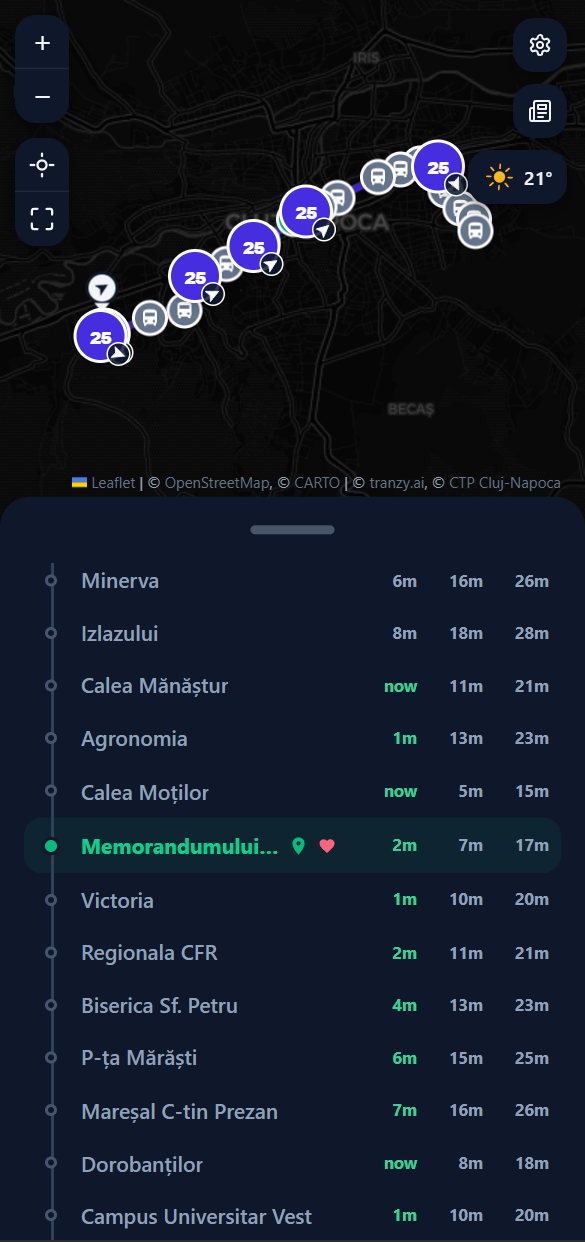
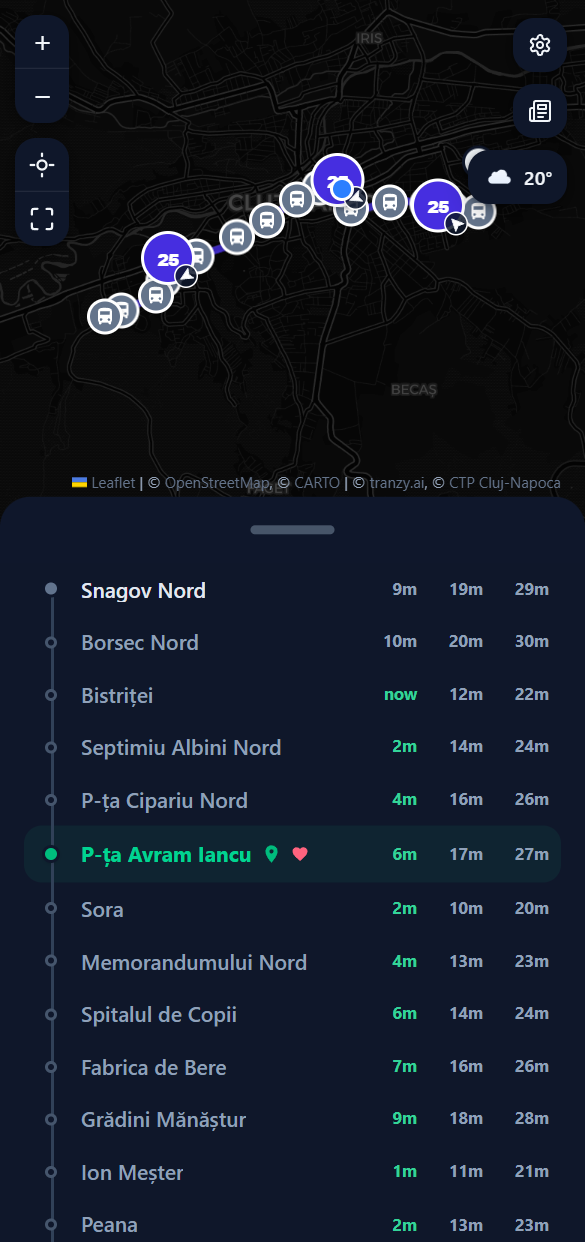
README update

diff --git a/frontend/src/views/StopView.vue b/frontend/src/views/StopView.vue
@@ -25,6 +25,7 @@ import {getRouteIdFromTripId} from "@/utils/trips.ts";
 import HeaderNavigation from "@/components/HeaderNavigation.vue"
 import {getDirectionFromTripId, getTripIdForRouteAtStop} from "@/utils/trips.ts";
 import {useSettingsStore} from "@/stores/settings.ts"
+import {useMapStore} from "@/stores/map.ts"
 import ShareButton from "@/components/ShareButton.vue";
 import {useKbdShortcuts} from "@/composables/useKeyboardNav.ts";
 import {keepHyphenatedWords} from "@/utils/text.ts";
@@ -92,6 +93,12 @@ function planHere() {
   if (!info) return
   void router.push({name: 'plan', query: {lat: String(info.stop_lat), lon: String(info.stop_lon), name: info.stop_name}})
 }
+
+const mapStore = useMapStore()
+watch(() => stopInfo.value?.stop_id, () => {
+  const info = stopInfo.value
+  if (info && !settings.watchActive) mapStore.setFlyToLocation(info.stop_lat, info.stop_lon)
+}, {immediate: true})
 
 watch([stopInfo, () => route.query.follow], ([info, tripId]) => {
   const at = Number(route.query.at)
@@ -448,7 +455,8 @@ const navigateToAllRoute = (shape: ShapeInfo) => {
                   i === 0 && !shape.static_time_approximation
                     ? 'time-pill-live'
                     : 'time-pill-sched',
-                  i > 0 ? 'time-pill-extra' : ''
+                  i > 0 ? 'time-pill-extra' : '',
+                  i > 1 ? 'time-pill-third' : ''
                 ]"
               >{{
                   i === 0 && shape.static_time_approximation ? '~\u202f' : ''
@@ -595,6 +603,13 @@ const navigateToAllRoute = (shape: ShapeInfo) => {
 }
 
 /* Hide 2nd + 3rd pill when card is narrow */
+@container (max-width: 380px) {
+  .time-pill-third,
+  .live-badge {
+    display: none;
+  }
+}
+
 @container (max-width: 300px) {
   .time-pill-extra {
     display: none;

diff --git a/frontend/src/components/JourneyCard.vue b/frontend/src/components/JourneyCard.vue
@@ -34,7 +34,7 @@ const bus = computed(() => (step.value?.busMinutes != null ? formatMinutesFromNo
       </div>
       <span v-if="bus" class="journey-time">{{ bus }}</span>
     </div>
-    <div class="flex justify-end items-center gap-1">
+    <div class="flex flex-wrap justify-end items-center gap-1">
       <button type="button" class="journey-text-btn" @click="store.stop()">{{ t('journeyEnd') }}</button>
       <button type="button" class="journey-text-btn" @click="store.next()">{{ t('journeyNext') }}</button>
       <button type="button" class="journey-go" @click="router.push('/nav')">
@@ -103,7 +103,8 @@ const bus = computed(() => (step.value?.busMinutes != null ? formatMinutesFromNo
 }
 
 .journey-text-btn {
-  padding: 0.4rem 0.75rem;
+  padding: 0.4rem 0.6rem;
+  white-space: nowrap;
   border-radius: 9999px;
   font-size: 0.8125rem;
   font-weight: 700;
@@ -116,6 +117,7 @@ const bus = computed(() => (step.value?.busMinutes != null ? formatMinutesFromNo
 
 .journey-go {
   display: inline-flex;
+  white-space: nowrap;
   align-items: center;
   gap: 0.375rem;
   padding: 0.45rem 0.95rem;

diff --git a/frontend/src/views/NavigationView.vue b/frontend/src/views/NavigationView.vue
@@ -2,6 +2,7 @@
 import {computed, onMounted, onUnmounted, ref, watch} from 'vue'
 import {useI18n} from 'vue-i18n'
 import {useRouter} from 'vue-router'
+import {useHead} from '@unhead/vue'
 import {storeToRefs} from 'pinia'
 import HeaderNavigation from '@/components/HeaderNavigation.vue'
 import {useJourneyStore} from '@/stores/journey.ts'
@@ -23,6 +24,11 @@ const {userLocation, userTime} = storeToRefs(useUserStore())
 const FOLLOW_EVERY_MS = 8_000
 
 const journey = computed(() => store.journey)
+
+useHead(() => ({
+  title: journey.value ? t('headPlanToTitle', {dest: journey.value.destination.name}) : t('headPlanTitle'),
+  meta: [{name: 'robots', content: 'noindex'}],
+}))
 const step = computed(() => store.step)
 const now = computed(() => (userTime.value ?? new Date()).getTime())
 const title = computed(() => (step.value ? stepTitle(step.value) : t('followWaiting')))

diff --git a/frontend/src/styles/legacy-blue.css b/frontend/src/styles/legacy-blue.css
@@ -186,6 +186,7 @@ html[data-legacy-blue] .stop-view-container,
 html[data-legacy-blue] .route-view-container,
 html[data-legacy-blue] .home-view-container,
 html[data-legacy-blue] .plan-view-container,
+html[data-legacy-blue] .nav-view-container,
 html[data-legacy-blue] .settings-view-container {
   background: var(--xp-bliss) !important;
   font-family: var(--xp-font) !important;
@@ -612,7 +613,8 @@ html.dark[data-legacy-blue] .app-drawer {
 html.dark[data-legacy-blue] .stop-view-container,
 html.dark[data-legacy-blue] .route-view-container,
 html.dark[data-legacy-blue] .home-view-container,
-html.dark[data-legacy-blue] .plan-view-container {
+html.dark[data-legacy-blue] .plan-view-container,
+html.dark[data-legacy-blue] .nav-view-container {
   background: var(--xp-bliss) !important;
   color: var(--xp-text) !important;
 }

diff --git a/frontend/src/App.vue b/frontend/src/App.vue
@@ -2,6 +2,7 @@
 import {computed, defineAsyncComponent, nextTick, onMounted, onUnmounted, ref, watch} from "vue"
 import {useI18n} from "vue-i18n"
 import {useRoute, useRouter} from "vue-router"
+import {useHead} from "@unhead/vue"
 import MapComponent from "@/components/MapComponent.vue"
 import SettingsButton from "@/components/SettingsButton.vue"
 import OfflinePill from "@/components/OfflinePill.vue"
@@ -23,6 +24,7 @@ const WatchShell = defineAsyncComponent(() => import("@/components/watch/WatchSh
 const SimplifiedLayoutPrompt = defineAsyncComponent(() => import("@/components/SimplifiedLayoutPrompt.vue"))
 
 const {t} = useI18n()
+useHead(() => ({title: t('headHomeTitle')}))
 const mapStore = useMapStore()
 const appSettings = useSettingsStore()
 const reminders = useRemindersStore()

diff --git a/frontend/src/styles/paper.css b/frontend/src/styles/paper.css
@@ -126,6 +126,7 @@ html[data-paper] .stop-view-container,
 html[data-paper] .route-view-container,
 html[data-paper] .home-view-container,
 html[data-paper] .plan-view-container,
+html[data-paper] .nav-view-container,
 html[data-paper] .settings-view-container,
 html[data-paper] .kbd-help,
 html[data-paper] .app-toast {
@@ -179,6 +180,7 @@ html[data-paper] .stop-view-container,
 html[data-paper] .route-view-container,
 html[data-paper] .home-view-container,
 html[data-paper] .plan-view-container,
+html[data-paper] .nav-view-container,
 html[data-paper] .settings-view-container {
   background: transparent !important;
   color: var(--pp-ink) !important;

diff --git a/frontend/src/styles/arcade.css b/frontend/src/styles/arcade.css
@@ -59,6 +59,7 @@ html[data-arcade] .stop-view-container,
 html[data-arcade] .route-view-container,
 html[data-arcade] .home-view-container,
 html[data-arcade] .plan-view-container,
+html[data-arcade] .nav-view-container,
 html[data-arcade] .settings-view-container {
   background-color: #fefce8 !important;
 }
@@ -293,6 +294,7 @@ html.dark[data-arcade] .stop-view-container,
 html.dark[data-arcade] .route-view-container,
 html.dark[data-arcade] .home-view-container,
 html.dark[data-arcade] .plan-view-container,
+html.dark[data-arcade] .nav-view-container,
 html.dark[data-arcade] .settings-view-container {
   background-color: #1c1608 !important;
 }

diff --git a/frontend/src/utils/__tests__/journey.spec.ts b/frontend/src/utils/__tests__/journey.spec.ts
@@ -36,6 +36,13 @@ function drive(j: Journey, run: JourneyRun, ticks: [Fix | null, LegDeparture | n
 }
 
 describe('a planned trip', () => {
+  it('starts at the stop when there is no walk to it', () => {
+    const j = journey()
+    j.legs[0]!.walkMinutes = 0
+    expect(startRun(j, null).phase).toEqual({kind: 'wait', leg: 0})
+    expect(startRun(journey(), null).phase).toEqual({kind: 'walk', leg: 0})
+  })
+
   it('goes walk, wait, ride, walk, wait, ride, last walk, arrived as you move', () => {
     const j = journey()
     const start = fixAt(46.76 - 0.004, 23.59)

diff --git a/frontend/src/views/SettingsView.vue b/frontend/src/views/SettingsView.vue
@@ -91,7 +91,7 @@ async function togglePush() {
 
     <section class="flex flex-col gap-2">
       <h2 class="section-label">{{ t('language') }}</h2>
-      <p class="setting-note">
+      <p v-if="settings.locale !== 'ro'" class="setting-note">
         <span v-if="settings.legacyBlueActive" class="emoji-icon-sm" aria-hidden="true">⚠</span>
         <svg v-else viewBox="0 0 24 24" fill="none" stroke="currentColor" stroke-width="2.2"
              stroke-linecap="round" stroke-linejoin="round" aria-hidden="true">

diff --git a/frontend/src/views/HomeView.vue b/frontend/src/views/HomeView.vue
@@ -461,7 +461,7 @@ useKbdShortcuts({
       </section>
 
       <section v-if="isHydrated && (hasFavorites || recentNonFavoritePlans.length)" class="flex flex-col gap-5">
-        <h2 class="section-label">
+        <h2 v-if="hasFavorites" class="section-label">
           <span v-if="settings.legacyBlueActive" class="emoji-icon" aria-hidden="true">❤</span>
           <svg v-else class="w-3.5 h-3.5 text-rose-500 shrink-0" fill="currentColor"
                viewBox="0 0 24 24">

diff --git a/frontend/src/utils/journey.ts b/frontend/src/utils/journey.ts
@@ -121,7 +121,7 @@ export function leftOnBus(fix: Fix, leg: JourneyLeg): boolean {
 export function startRun(journey: Journey, fix: Fix | null): JourneyRun {
   const first = journey.legs[0]!
   return {
-    phase: {kind: 'walk', leg: 0},
+    phase: {kind: first.walkMinutes < 0.5 ? 'wait' : 'walk', leg: 0},
     stepIndex: 0,
     alerted: false,
     rideStop: 0,

diff --git a/README.md b/README.md
@@ -13,6 +13,9 @@ A live bus and tram tracker for Cluj-Napoca. I ride CTP every day and got tired 
 - The times get better on their own: the server watches the buses and learns how long each stretch really takes, hour by hour
 - Full timetables for every line, straight from CTP
 - A route planner: leave now, leave at, arrive by, or the last one today
+- Start a planned trip and it walks you through it: to the stop, onto the bus, off at the right stop
+- Tap the bell on a departure and it tells you when to leave, when the bus is close and when it's there
+- Reminders for the buses you take often, once or on chosen days, sent 20 minutes before the bus even with the site closed
 - Favorite stops, and favorite lines per direction
 - Follow a line and get a notification when CTP changes its timetable or route
 - Installable as an app. After the first visit every stop, line and timetable opens without the server: the whole network comes down once (about 180 KB) and only the buses stay live
@@ -23,7 +26,7 @@ There are a few hidden things scattered around for the curious. 🐣
 
 <p align="center">
   <img src="readme/phone-route.png" width="250" alt="A line's stops with live arrival times">
-  <img src="readme/phone-planner.png" width="250" alt="A planned trip from the train station to Iulius Mall">
+  <img src="readme/phone-planner.png" width="250" alt="A planned trip from the train station to Iulius Mall, ready to start">
   <img src="readme/phone-timetable.png" width="250" alt="A line's timetable, with the times already gone faded out">
 </p>
 
@@ -31,12 +34,12 @@ There are a few hidden things scattered around for the curious. 🐣
 
 <table>
   <tr>
-    <td align="center"><img src="readme/theme-default.png" width="380" alt="The default theme, light and dark"><br><sub>Default</sub></td>
-    <td align="center"><img src="readme/theme-arcade.png" width="380" alt="The Arcade theme, light and dark"><br><sub>Arcade</sub></td>
+    <td align="center"><img src="readme/theme-default.png" width="380" alt="The default theme, light on the left and dark on the right"><br><sub>Default</sub></td>
+    <td align="center"><img src="readme/theme-arcade.png" width="380" alt="The Arcade theme, light on the left and dark on the right"><br><sub>Arcade</sub></td>
   </tr>
   <tr>
-    <td align="center"><img src="readme/theme-legacy-blue.png" width="380" alt="The Legacy Blue theme, light and dark"><br><sub>Legacy Blue</sub></td>
-    <td align="center"><img src="readme/theme-paper.png" width="380" alt="The Paper theme, light and dark"><br><sub>Paper</sub></td>
+    <td align="center"><img src="readme/theme-legacy-blue.png" width="380" alt="The Legacy Blue theme, light on the left and dark on the right"><br><sub>Legacy Blue</sub></td>
+    <td align="center"><img src="readme/theme-paper.png" width="380" alt="The Paper theme, light on the left and dark on the right"><br><sub>Paper</sub></td>
   </tr>
 </table>
 
@@ -47,7 +50,7 @@ It runs in a smartwatch browser too, with a simplified layout: favorites, depart
 <p align="center">
   <img src="readme/watch-menu.png" width="180" alt="Simplified layout menu with favorites">
   <img src="readme/watch-stop.png" width="180" alt="Departures from a stop">
-  <img src="readme/watch-route.png" width="180" alt="A line's stops around the one you came from">
+  <img src="readme/watch-route.png" width="180" alt="A line's timetable for today">
   <img src="readme/watch-map.png" width="180" alt="Live buses on the map">
 </p>
 
